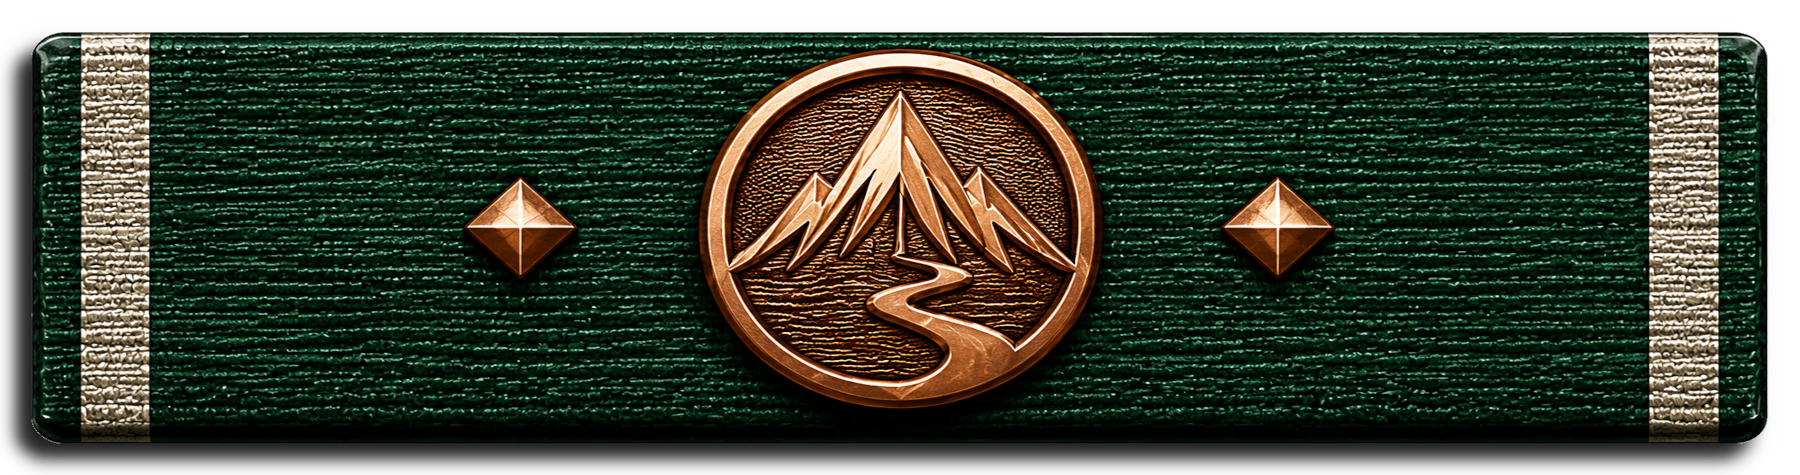
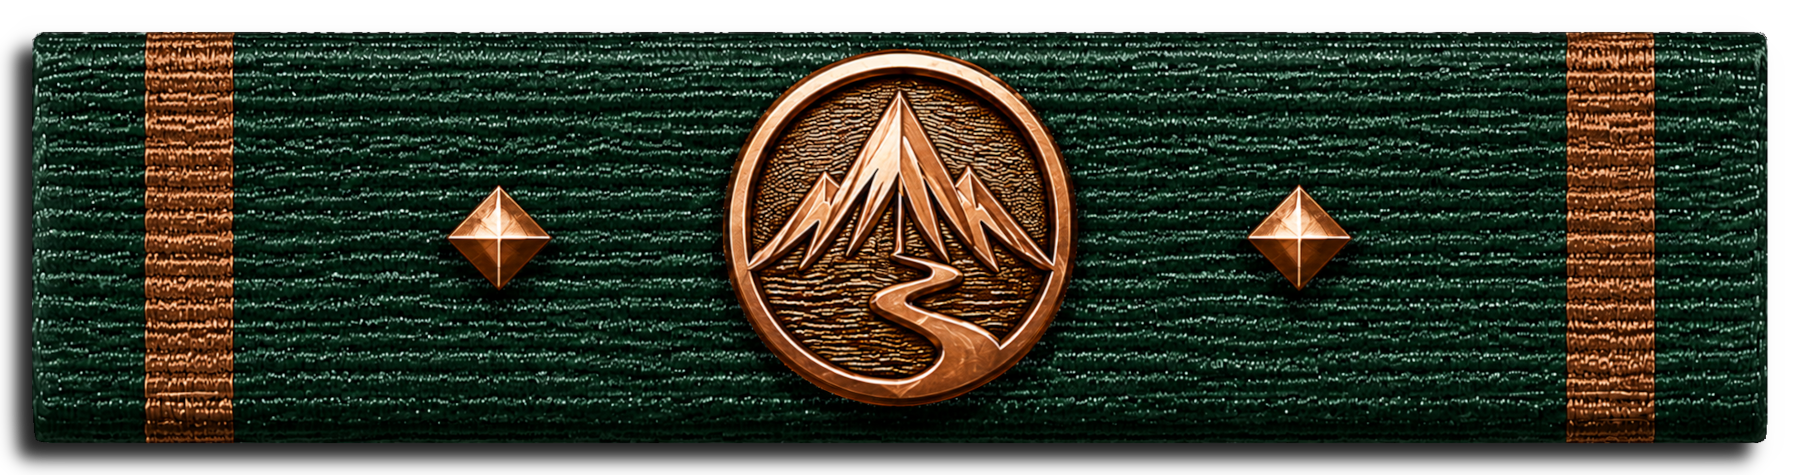
more assets, improved work, thywork todo

diff --git a/cfg/waybar/style.css b/cfg/waybar/style.css
@@ -86,7 +86,7 @@
 }
 
 #custom-thywork.reward {
-  color: #94B852;
+  color: #7652B8;
 }
 
 #custom-thywork.ahead {